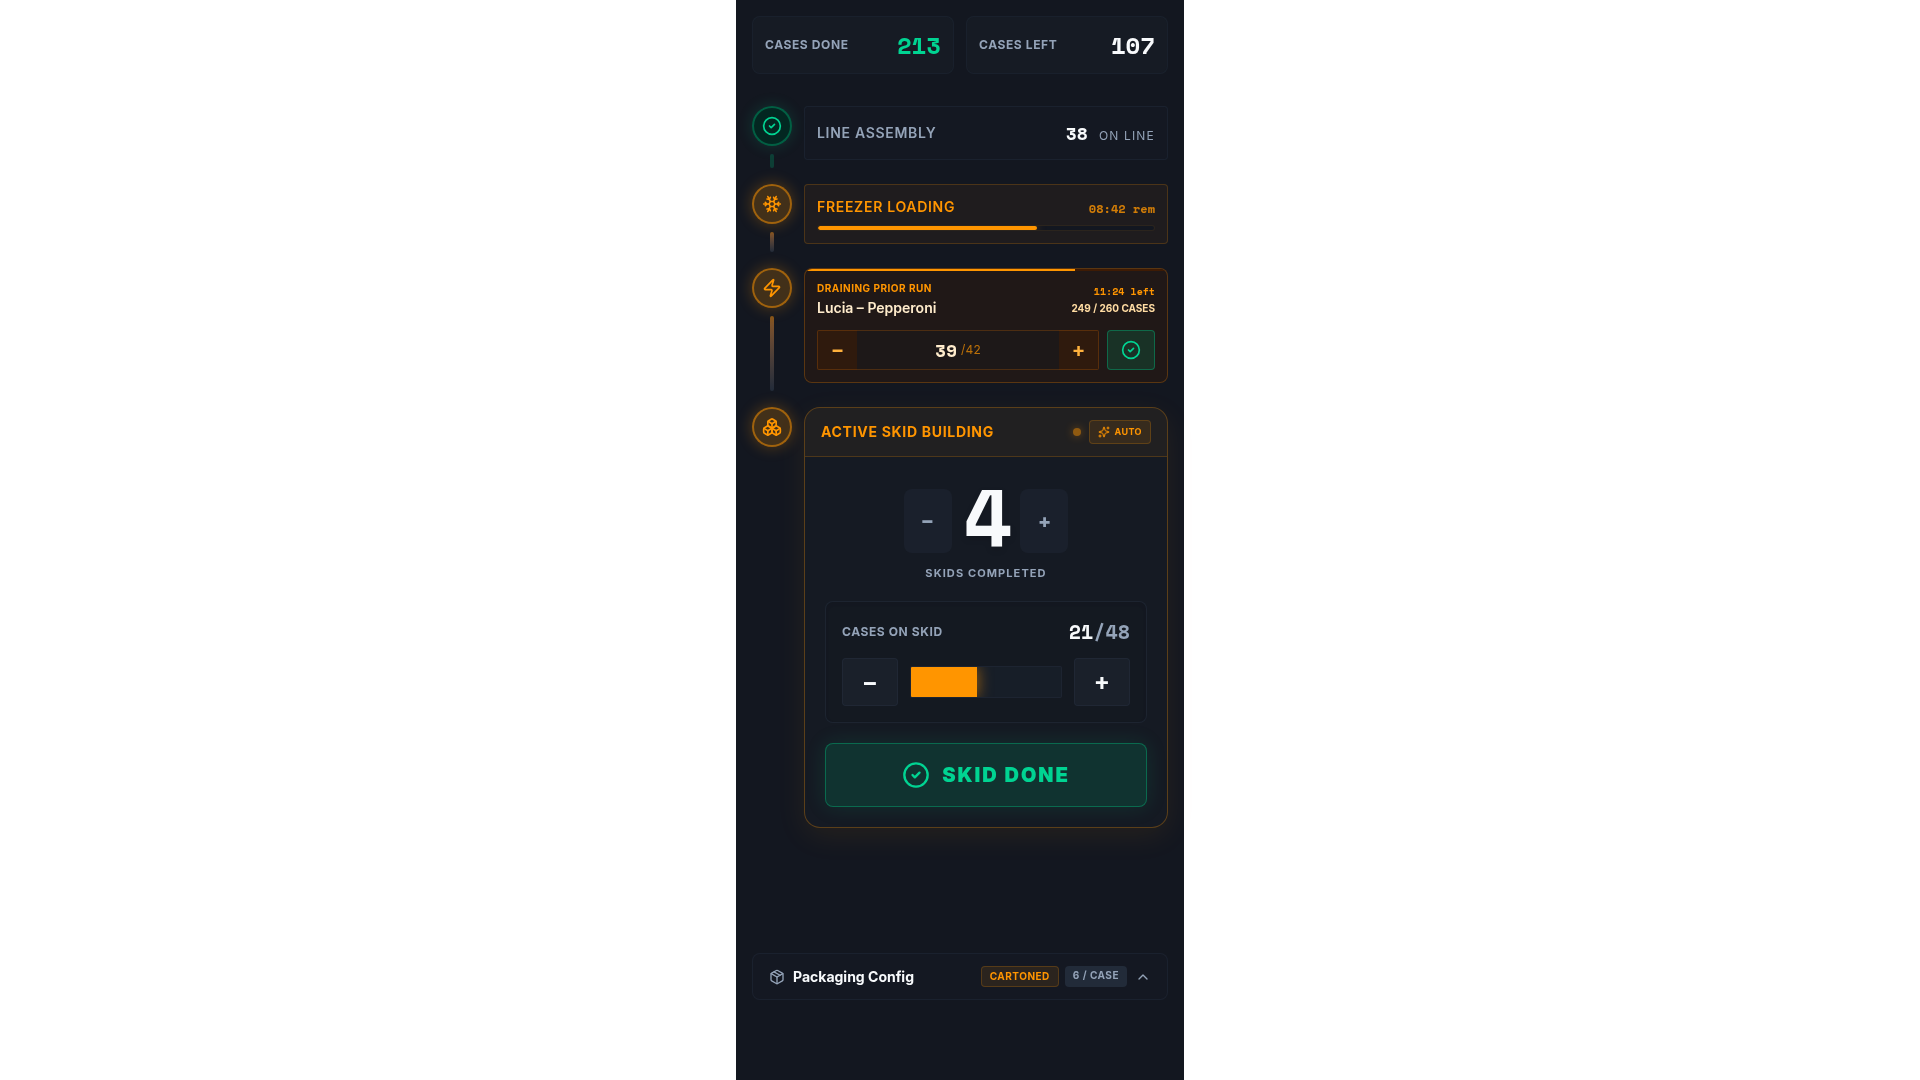
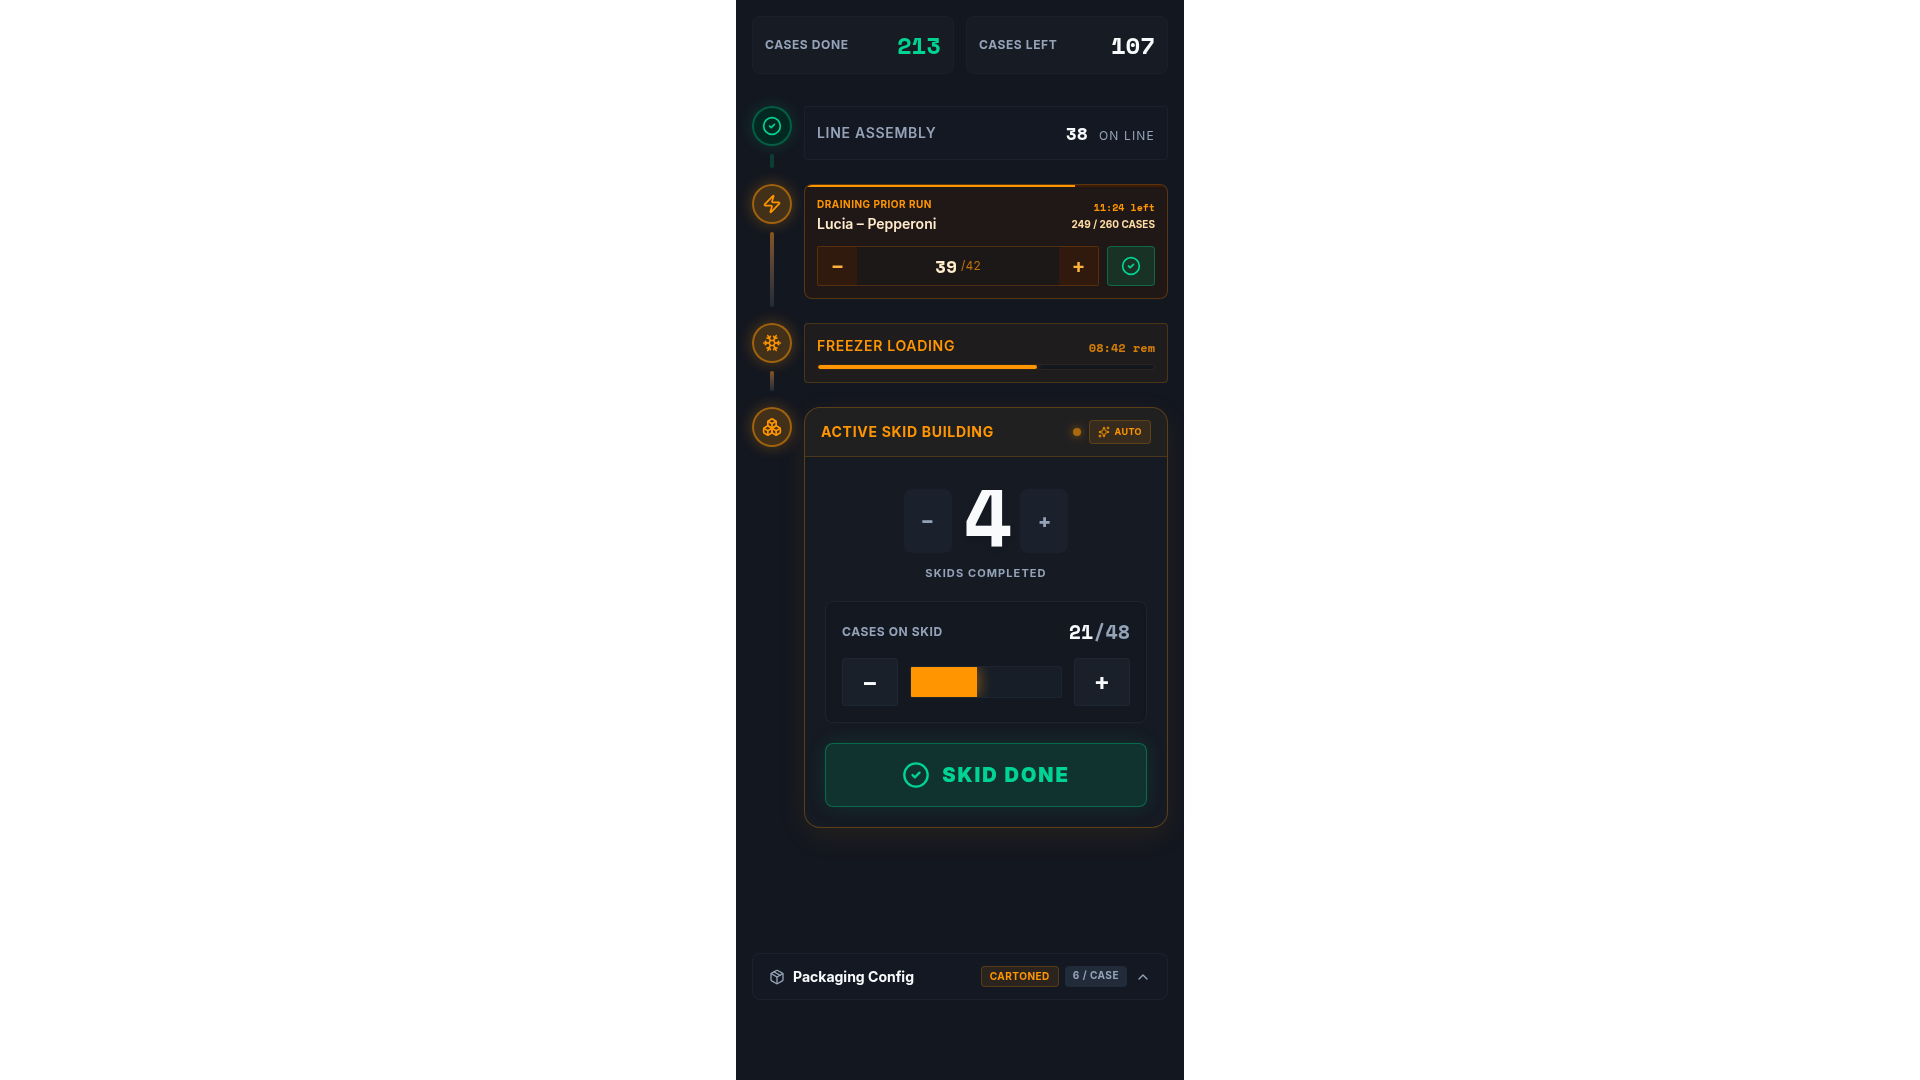
Reorder freezer timers to show draining before loading
Swap the 'Freezer Loading' and 'Freezer Draining' stages in the VariantAB component, updating the screenshot artifact.

Replit-Commit-Author: Agent
Replit-Commit-Session-Id: 280a9ba2-7370-423b-ad6b-aa0dbc6b3488
Replit-Commit-Checkpoint-Type: full_checkpoint
Replit-Commit-Event-Id: b0ecaa7e-60ee-4511-9426-97981f437840
Replit-Commit-Screenshot-Url: https://storage.googleapis.com/screenshot-production-us-central1/de4fa38f-10e1-481d-ab62-4ad238a33ebf/280a9ba2-7370-423b-ad6b-aa0dbc6b3488/M0w7AWL
Replit-Helium-Checkpoint-Created: true

Changed region(s): [[0.375, 0.1833, 0.625, 0.3667]]

diff --git a/artifacts/mockup-sandbox/src/components/mockups/tab-packaging/VariantAB.tsx b/artifacts/mockup-sandbox/src/components/mockups/tab-packaging/VariantAB.tsx
@@ -166,28 +166,7 @@ export function VariantAB() {
           </div>
         </div>
 
-        {/* Stage 2: Freezer Filling */}
-        <div className="flex mb-4">
-          <TimelineNode icon={Snowflake} active />
-          <div className="flex-1 mt-2">
-            <div className="bg-primary/5 border border-primary/20 rounded-lg p-3">
-              <div className="flex justify-between items-end mb-2">
-                <span className="text-sm font-semibold uppercase tracking-wider text-primary">Freezer Loading</span>
-                <span className="text-xs font-mono font-bold text-primary/80">
-                  {String(Math.floor(fillRemain / 60)).padStart(2, "0")}:{String(fillRemain % 60).padStart(2, "0")} rem
-                </span>
-              </div>
-              <div className="w-full h-1.5 rounded-full bg-background border border-primary/10 overflow-hidden">
-                <div
-                  className="h-full rounded-full transition-all duration-1000 bg-primary shadow-[0_0_10px_rgba(255,149,0,0.5)]"
-                  style={{ width: `${fillPct * 100}%` }}
-                />
-              </div>
-            </div>
-          </div>
-        </div>
-
-        {/* Stage 3: Freezer Draining */}
+        {/* Stage 2: Freezer Draining */}
         <div className="flex mb-4">
           <TimelineNode icon={Zap} active />
           <div className="flex-1 mt-2">
@@ -225,6 +204,27 @@ export function VariantAB() {
                 >
                   <CheckCircle2 className="w-5 h-5" />
                 </button>
+              </div>
+            </div>
+          </div>
+        </div>
+
+        {/* Stage 3: Freezer Filling */}
+        <div className="flex mb-4">
+          <TimelineNode icon={Snowflake} active />
+          <div className="flex-1 mt-2">
+            <div className="bg-primary/5 border border-primary/20 rounded-lg p-3">
+              <div className="flex justify-between items-end mb-2">
+                <span className="text-sm font-semibold uppercase tracking-wider text-primary">Freezer Loading</span>
+                <span className="text-xs font-mono font-bold text-primary/80">
+                  {String(Math.floor(fillRemain / 60)).padStart(2, "0")}:{String(fillRemain % 60).padStart(2, "0")} rem
+                </span>
+              </div>
+              <div className="w-full h-1.5 rounded-full bg-background border border-primary/10 overflow-hidden">
+                <div
+                  className="h-full rounded-full transition-all duration-1000 bg-primary shadow-[0_0_10px_rgba(255,149,0,0.5)]"
+                  style={{ width: `${fillPct * 100}%` }}
+                />
               </div>
             </div>
           </div>
